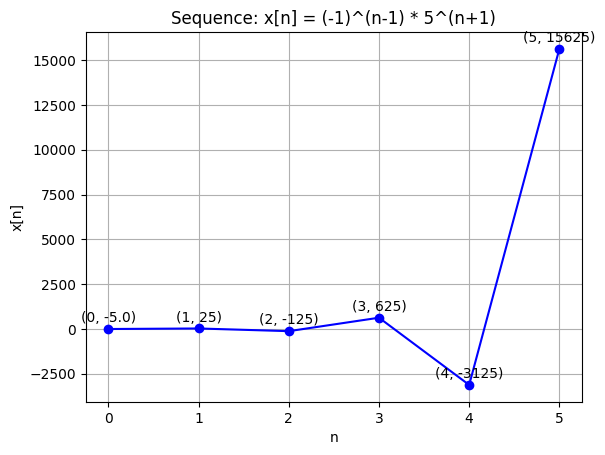
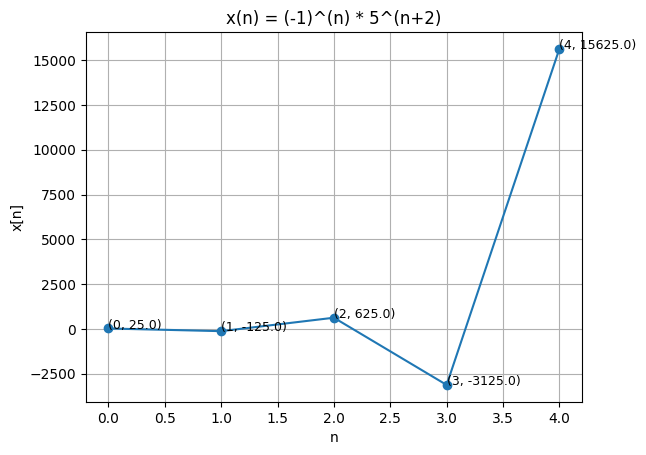
Add files via upload

diff --git a/Assignment2/Assignment_2.tex b/Assignment2/Assignment_2.tex
@@ -97,14 +97,14 @@ Indian Institute of Technology Hyderabad
 
 On substituting n = 0, 1, 2, 3 and 4, we get the first five terms 
 
-Hence, the required terms are -5, 25, –125, 625, –3125 .
+Hence, the required terms are 25, –125, 625, –3125, 15625 .
 
 
 The Z-transform of a sequence $x(n)$ is given by:
 
  \begin{align}
-	     x(n) &= (-1)^{n-1}5^{n+1}u(n)
-	       \\  X(Z) &= \dfrac{-5z}{z+5}; ( |z| > 5 )
+	     x(n) &= (-1)^{n}.5^{n+2}.u(n)
+	       \\  X(Z) &= \dfrac{25z}{z+5} \; ; \;( |z| > 5 )
  \end{align}
 
 

diff --git a/Assignment2/table/table2.tex b/Assignment2/table/table2.tex
@@ -3,9 +3,9 @@
      \textbf{Parameter} & \textbf{Value} &
      \textbf{Description}\\
     \hline 
-     $x(n)$ &  $(-1)^{n-1}5^{n+1}$ & General Term\\
+     $x(n)$ &  $(-1)^{n}5^{n+2}$ & General Term\\
     \hline 
-     $x(0)$ &  $-5$ & First term of G.P.\\
+     $x(0)$ &  $25$ & First term of G.P.\\
      
     \hline
      $r$ & $-5$ & Common ratio of G.P.  \\

diff --git a/Assignment2/code/graph.py b/Assignment2/code/graph.py
@@ -15,8 +15,8 @@ for line in data:
 # Plot the points
 plt.plot(x_values, y_values, marker='o', linestyle='-')
 plt.xlabel('n')
-plt.ylabel('x(n)')
-plt.title('Plot of x(n) = (-1)^(n-1) * 5^(n+1)')
+plt.ylabel('x[n]')
+plt.title('x(n) = (-1)^(n) * 5^(n+2)')
 plt.grid(True)
 plt.show()
 

diff --git a/Assignment2/code/c_code.c b/Assignment2/code/c_code.c
@@ -11,7 +11,7 @@ int main() {
 
     // Iterate over values of n from 0 to 4
     for (int n = 0; n <= 4; ++n) {
-        double term = pow(-1, n - 1) * pow(5, n + 1);
+        double term = pow(-1, n ) * pow(5, n + 2);
         fprintf(file, "%d %.2f\n", n, term);
     }
 
